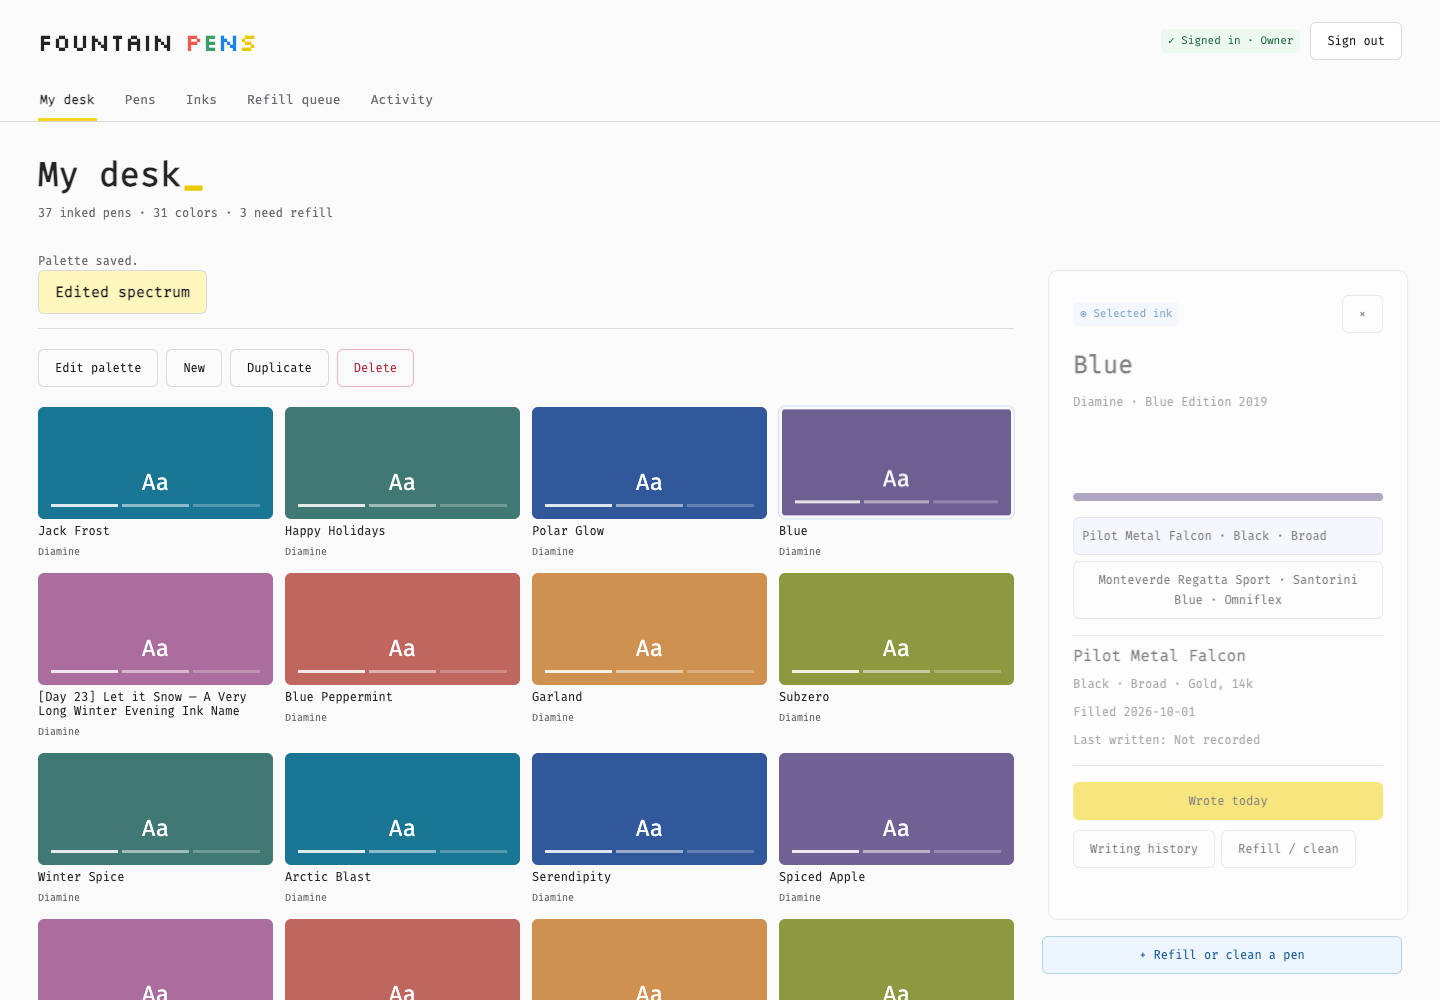
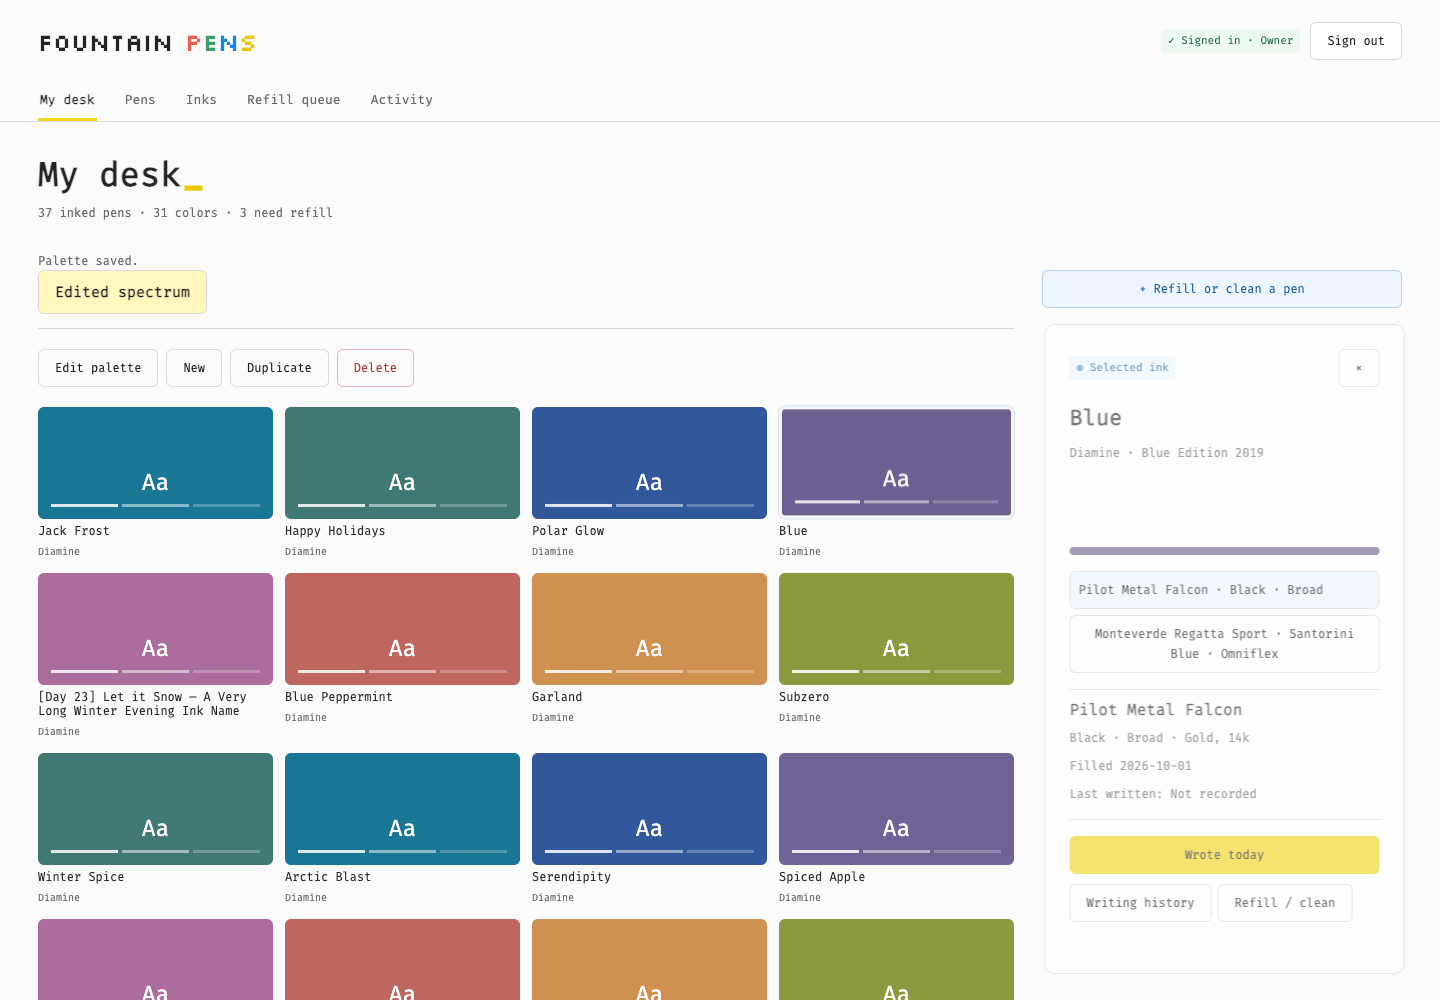
Refine desk hierarchy and purposeful interaction feedback

diff --git a/src/App.tsx b/src/App.tsx
@@ -207,7 +207,14 @@ export function App() {
   };
   return (
     <div className="desk-shell">
-      <a className="desk-skip" href="#desk-main" onClick={(event) => { event.preventDefault(); document.getElementById("desk-main")?.focus(); }}>
+      <a
+        className="desk-skip"
+        href="#desk-main"
+        onClick={(event) => {
+          event.preventDefault();
+          document.getElementById("desk-main")?.focus();
+        }}
+      >
         Skip to desk
       </a>
       <header className="desk-rail">
@@ -266,7 +273,9 @@ export function App() {
           <>
             <Failure error={warning} />
             <Failure error={command.error} />
-            <Muted role="status">{view === "desk" ? notice : ""}</Muted>
+            <Muted className="desk-notice" role="status">
+              {view === "desk" ? notice : ""}
+            </Muted>
             {(view === "pens" || view === "inks") && (
               <CollectionView
                 key={view}
@@ -486,6 +495,16 @@ export function App() {
                     )}
                 </YStack>
                 <YStack className="desk-active" gap={16}>
+                  {canEdit && (
+                    <Primary
+                      backgroundColor="#edf5ff"
+                      color="#185b98"
+                      borderColor="#b6d2eb"
+                      onPress={() => setDialog({ kind: "refill" })}
+                    >
+                      + Refill or clean a pen
+                    </Primary>
+                  )}
                   <div className="selection-slot">
                     <div className="selection-empty" hidden={selectionOpen}>
                       <Text fontSize={18}>No ink selected</Text>
@@ -510,7 +529,14 @@ export function App() {
                               </Text>
                               <Action
                                 aria-label="Deselect ink"
-                                onPress={() => { document.querySelector<HTMLButtonElement>('.desk-swatch[aria-pressed="true"]')?.focus(); setSelected(""); }}
+                                onPress={() => {
+                                  document
+                                    .querySelector<HTMLButtonElement>(
+                                      '.desk-swatch[aria-pressed="true"]',
+                                    )
+                                    ?.focus();
+                                  setSelected("");
+                                }}
                               >
                                 ×
                               </Action>
@@ -646,13 +672,6 @@ export function App() {
                       </Panel>
                     </div>
                   </div>
-                  {canEdit && (
-                    <Primary backgroundColor="#edf5ff"
-                      color="#185b98"
-                      borderColor="#b6d2eb" onPress={() => setDialog({ kind: "refill" })}>
-                      + Refill or clean a pen
-                    </Primary>
-                  )}
                 </YStack>
               </div>
             )}
@@ -685,9 +704,12 @@ export function App() {
                   )}
                 </Panel>
                 {canEdit && (
-                  <Primary backgroundColor="#edf5ff"
-                      color="#185b98"
-                      borderColor="#b6d2eb" onPress={() => setDialog({ kind: "refill" })}>
+                  <Primary
+                    backgroundColor="#edf5ff"
+                    color="#185b98"
+                    borderColor="#b6d2eb"
+                    onPress={() => setDialog({ kind: "refill" })}
+                  >
                     + Refill or clean a pen
                   </Primary>
                 )}

diff --git a/src/desk/shell.css b/src/desk/shell.css
@@ -303,13 +303,14 @@ button[aria-pressed="true"]:not(.desk-swatch) {
 .selected-panel {
   height: 100%;
   overflow-y: auto;
+  scrollbar-gutter: stable;
   overscroll-behavior: contain;
   opacity: 0;
   transform: translateX(14px);
   visibility: hidden;
   transition:
     opacity 180ms ease,
-    transform 180ms ease,
+    transform 180ms cubic-bezier(0.22, 1, 0.36, 1),
     visibility 180ms;
 }
 .selected-panel.is-open {
@@ -322,10 +323,11 @@ button[aria-pressed="true"]:not(.desk-swatch) {
   inset: 0;
   display: flex;
   flex-direction: column;
-  justify-content: center;
+  justify-content: flex-start;
   gap: 12px;
-  padding: 28px;
-  border: 1px dashed #c4c4cb;
+  padding: 24px;
+  bottom: auto;
+  border: 1px solid #d9d9de;
   border-radius: 10px;
 }
 .selection-empty[hidden] {
@@ -339,8 +341,8 @@ button[aria-pressed="true"]:not(.desk-swatch) {
 }
 .ink-identity h2 {
   margin: 0;
-  font-size: 25px;
-  line-height: 32px;
+  font-size: 22px;
+  line-height: 29px;
   overflow-wrap: anywhere;
   text-wrap: pretty;
 }
@@ -501,5 +503,41 @@ textarea:focus-visible {
   }
 }
 
-.selected-panel > div { min-height: 100%; }
-.action-danger span { color: #ad2635; }
+.selected-panel > div {
+  min-height: 100%;
+}
+.desk-notice {
+  min-height: 24px;
+}
+.ink-actions {
+  position: sticky;
+  bottom: 0;
+  background: #fff;
+  padding-bottom: 16px;
+  z-index: 1;
+}
+.desk-rail-nav a {
+  transition:
+    color 160ms ease,
+    box-shadow 180ms ease;
+}
+.desk-rail-nav a:hover {
+  box-shadow: inset 0 -3px #d9d9de;
+}
+.desk-rail-nav a.nav-active {
+  box-shadow: inset 0 -3px #f3d51b;
+}
+.collection-row {
+  transition:
+    border-color 160ms ease,
+    background-color 160ms ease;
+}
+.desk-swatch:focus-visible {
+  outline-offset: 5px;
+}
+button:disabled {
+  opacity: 0.65;
+}
+.action-danger span {
+  color: #ad2635;
+}

diff --git a/docs/verification/desk-iteration/README.md b/docs/verification/desk-iteration/README.md
@@ -38,3 +38,17 @@ CHROMIUM_PATH='/Applications/Google Chrome.app/Contents/MacOS/Google Chrome' nod
 ```
 
 Playwright is a local verification-only install, not an application dependency. Tests ran on this Mac's Node 26; CI uses Node 22. Synthetic browser checks do not establish hosted Auth/PostgREST compatibility. No production writes, schema/security edits, merge or deployment were performed.
+
+## Approved skill refinement (19 October)
+
+Installed only the approved pinned core directories using Codex's trusted Python installer:
+- `design-taste-frontend`: Leonxlnx/taste-skill `a9c73c3d5dbf401e3e47f86e7b41f29ede1687df`, 38 core files.
+- `build-awwwards-quality-sites`: MengTo/Skills `398cd41c86ba42fbb30e944ae507f463648f08b7`, 2 core files.
+
+Every installed core file was byte-compared with the reviewed source; each root MIT LICENSE was retained. No automatic updater or additional skills installed. Restart Codex to discover these skills automatically in future sessions.
+
+Art direction: the real swatches are the focal material; Silkscreen identifies the product and Fira Mono carries the working interface. The desk answers “what ink is in my pens, and what did I write with?” Reference pages answer “which pen or ink am I looking for?” Queue and Activity keep their dedicated jobs. Taste's app draw selected editorial-greeting (seed 123697366), using its clear personal-home hierarchy, adapted to the existing compact two-column desk rather than replacing approved layout. User constraints preserve the multicolor identity, underscore and selected underline. No artwork or new dependencies introduced.
+
+Changes: a 650px stable detail slot, a smaller readable ink title, sticky writing controls inside the scroll area, a general refill action above the panel, a compact deselected prompt, stable space for save feedback, navigation/row feedback and a stronger swatch focus offset. Selection uses a short ease-out slide; existing reduced-motion rules bypass all transitions. Native scrolling remains; marketing entrances, GSAP, smooth-scroll libraries, Three.js and motion quotas are inappropriate for this daily data tool and explicitly excluded by the approved scope.
+
+Validation: full `npm run check` passed again. Built Chrome tests rerun across public/owner/view-only modes, editing and all existing workflows. Added a geometry assertion that writing actions remain inside the selected panel with a long name at desktop/half width. Updated screenshots use synthetic intercepted Auth/RPC, zero production writes. The custom Playwright harness substitutes for the skill inspector so all screenshots contain controlled synthetic state. Style lint exceptions: Fira Mono is requested branding; ✎ and ✓ are functional indicators paired with text; box-shadow declarations draw focus/selection rings and underlines, not decorative elevation. No merge or deployment.
